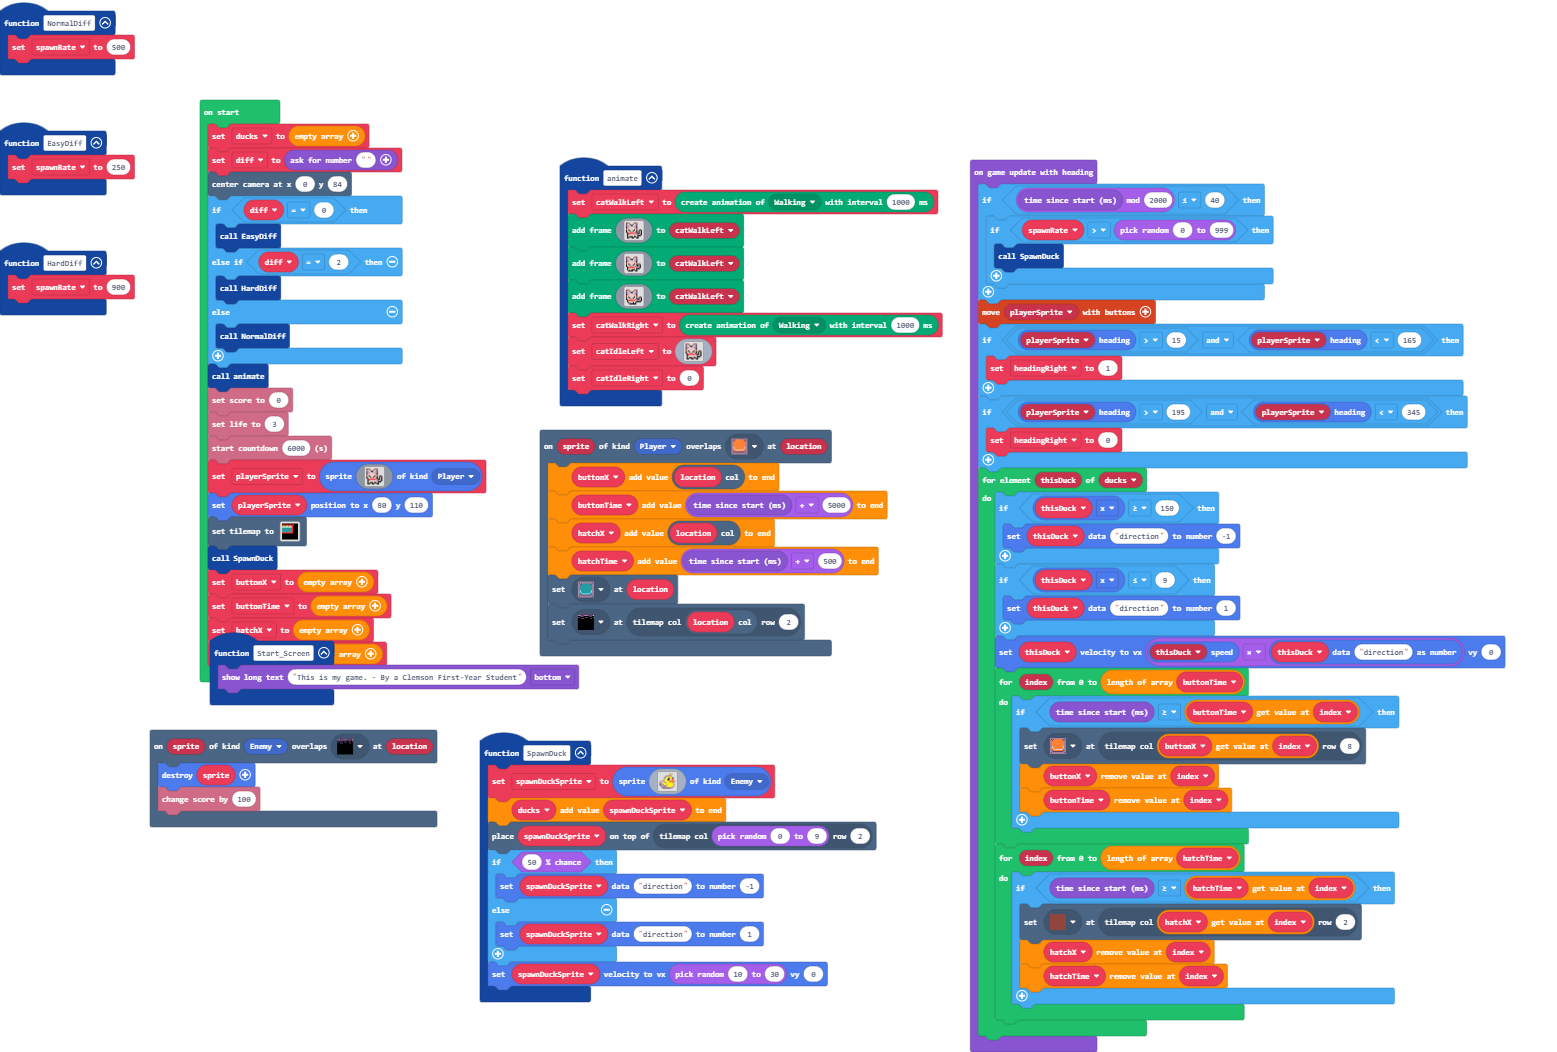
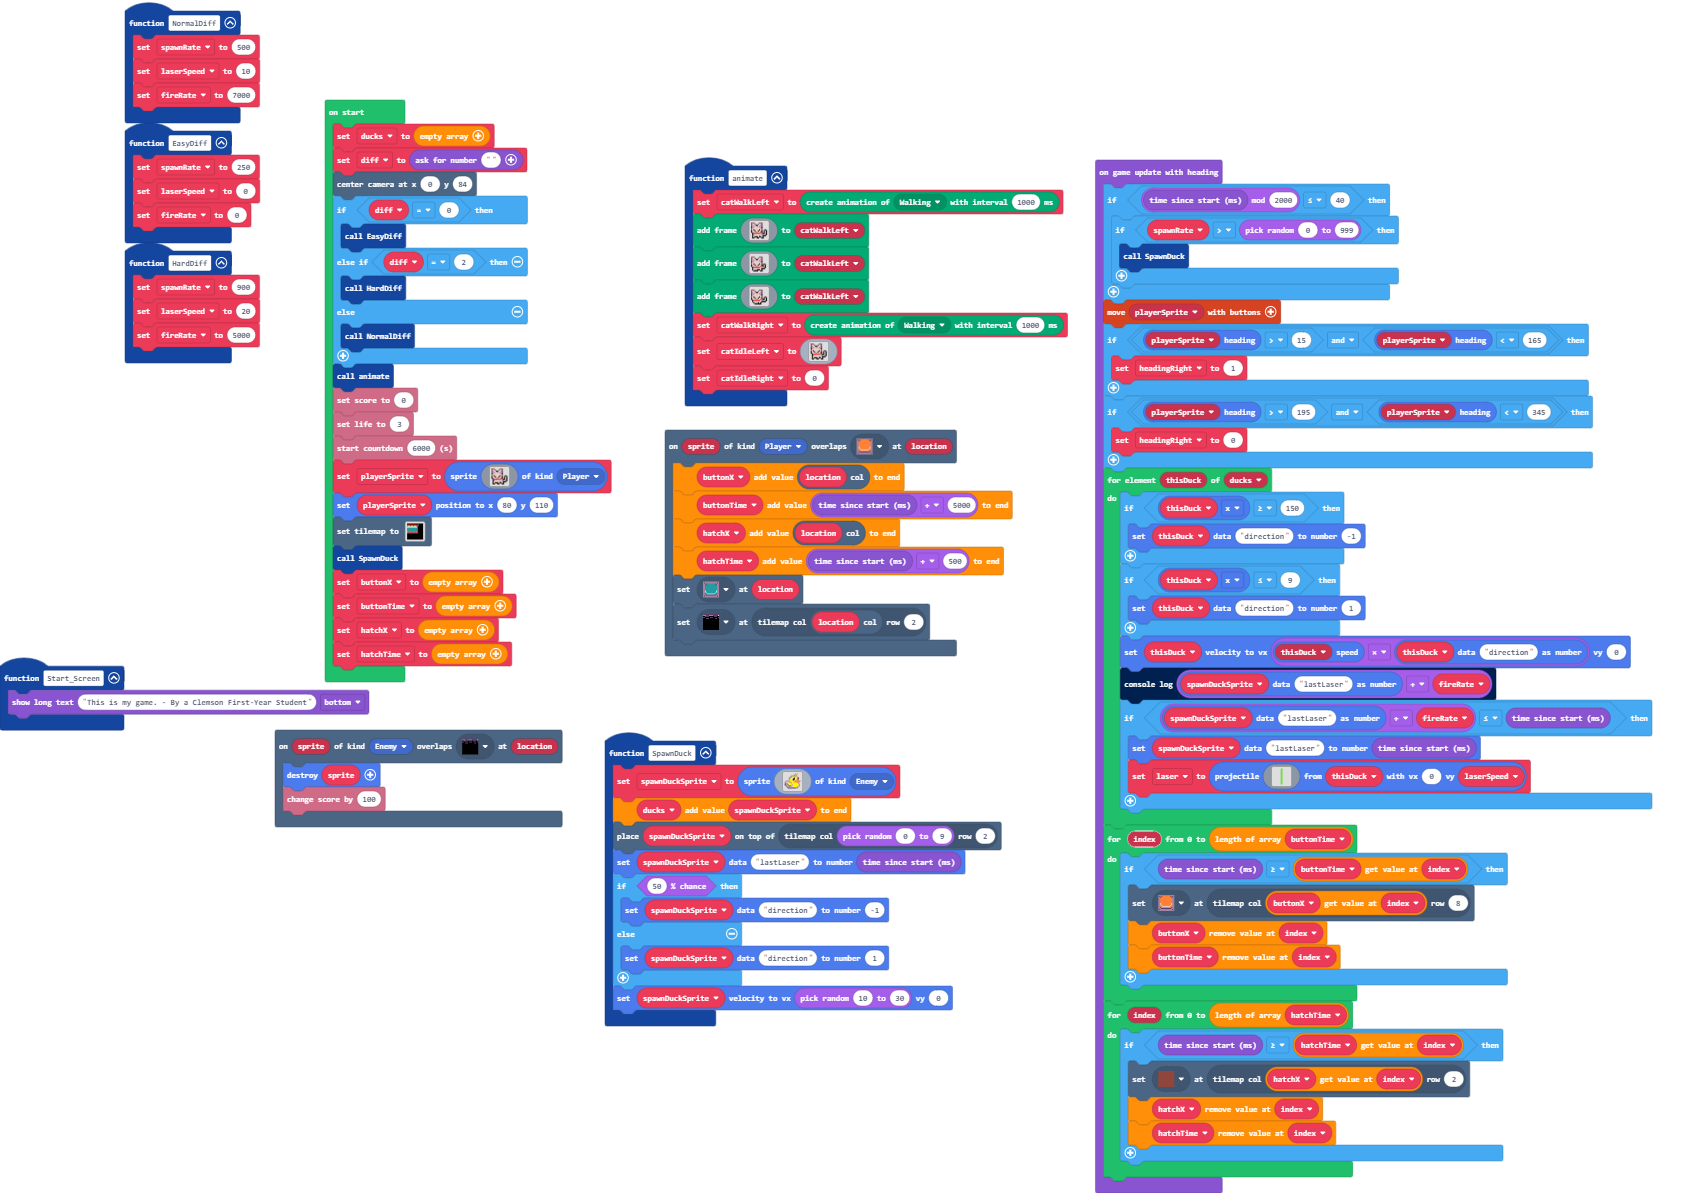
laser in progress

diff --git a/main.ts b/main.ts
@@ -74,6 +74,8 @@ function animate () {
 }
 function HardDiff () {
     spawnRate = 900
+    laserSpeed = 20
+    fireRate = 5000
 }
 game.onGameUpdateWithHeading(function () {
     if (Math.mod(game.runtime(), 2000) <= 40) {
@@ -96,24 +98,48 @@ game.onGameUpdateWithHeading(function () {
             sprites.setDataNumber(thisDuck, "direction", 1)
         }
         thisDuck.setVelocity(sprites.speed(thisDuck) * sprites.readDataNumber(thisDuck, "direction"), 0)
-        for (let index = 0; index <= buttonTime.length; index++) {
-            if (game.runtime() >= buttonTime[index]) {
-                tiles.setTileAt(tiles.getTileLocation(buttonX[index], 8), sprites.dungeon.buttonOrange)
-                buttonX.removeAt(index)
-                buttonTime.removeAt(index)
-            }
+        console.log(sprites.readDataNumber(spawnDuckSprite, "lastLaser") + fireRate)
+        if (sprites.readDataNumber(spawnDuckSprite, "lastLaser") + fireRate <= game.runtime()) {
+            sprites.setDataNumber(spawnDuckSprite, "lastLaser", game.runtime())
+            laser = sprites.createProjectileFromSprite(img`
+                . . . . . . . 7 7 . . . . . . . 
+                . . . . . . . 7 7 . . . . . . . 
+                . . . . . . . 7 7 . . . . . . . 
+                . . . . . . . 7 7 . . . . . . . 
+                . . . . . . . 7 7 . . . . . . . 
+                . . . . . . . 7 7 . . . . . . . 
+                . . . . . . . 7 7 . . . . . . . 
+                . . . . . . . 7 7 . . . . . . . 
+                . . . . . . . 7 7 . . . . . . . 
+                . . . . . . . 7 7 . . . . . . . 
+                . . . . . . . 7 7 . . . . . . . 
+                . . . . . . . 7 7 . . . . . . . 
+                . . . . . . . 7 7 . . . . . . . 
+                . . . . . . . 7 7 . . . . . . . 
+                . . . . . . . 7 7 . . . . . . . 
+                . . . . . . . 7 7 . . . . . . . 
+                `, thisDuck, 0, laserSpeed)
         }
-        for (let index = 0; index <= hatchTime.length; index++) {
-            if (game.runtime() >= hatchTime[index]) {
-                tiles.setTileAt(tiles.getTileLocation(hatchX[index], 2), myTiles.tile3)
-                hatchX.removeAt(index)
-                hatchTime.removeAt(index)
-            }
+    }
+    for (let index = 0; index <= buttonTime.length; index++) {
+        if (game.runtime() >= buttonTime[index]) {
+            tiles.setTileAt(tiles.getTileLocation(buttonX[index], 8), sprites.dungeon.buttonOrange)
+            buttonX.removeAt(index)
+            buttonTime.removeAt(index)
+        }
+    }
+    for (let index = 0; index <= hatchTime.length; index++) {
+        if (game.runtime() >= hatchTime[index]) {
+            tiles.setTileAt(tiles.getTileLocation(hatchX[index], 2), myTiles.tile3)
+            hatchX.removeAt(index)
+            hatchTime.removeAt(index)
         }
     }
 })
 function EasyDiff () {
     spawnRate = 250
+    laserSpeed = 0
+    fireRate = 0
 }
 function SpawnDuck () {
     spawnDuckSprite = sprites.create(img`
@@ -136,6 +162,7 @@ function SpawnDuck () {
         `, SpriteKind.Enemy)
     ducks.push(spawnDuckSprite)
     tiles.placeOnTile(spawnDuckSprite, tiles.getTileLocation(randint(0, 9), 2))
+    sprites.setDataNumber(spawnDuckSprite, "lastLaser", game.runtime())
     if (Math.percentChance(50)) {
         sprites.setDataNumber(spawnDuckSprite, "direction", -1)
     } else {
@@ -160,9 +187,14 @@ scene.onOverlapTile(SpriteKind.Player, sprites.dungeon.buttonOrange, function (s
 })
 function NormalDiff () {
     spawnRate = 500
+    laserSpeed = 10
+    fireRate = 7000
 }
+let laser: Sprite = null
 let spawnDuckSprite: Sprite = null
 let headingRight = 0
+let fireRate = 0
+let laserSpeed = 0
 let spawnRate = 0
 let catIdleRight = 0
 let catIdleLeft: Image = null
